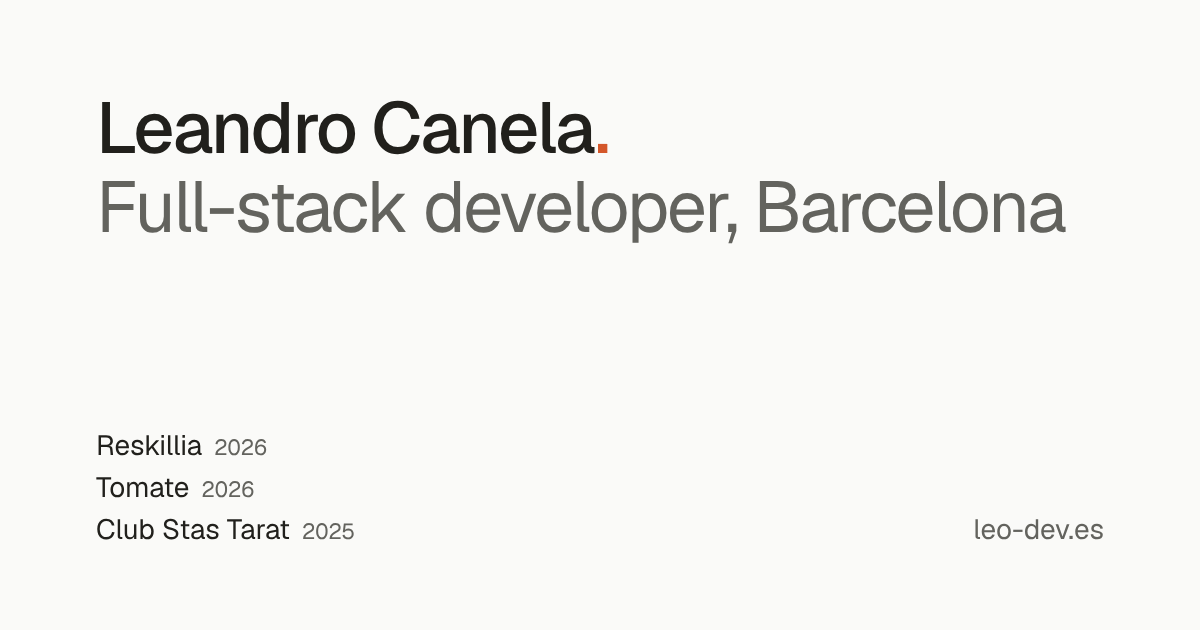
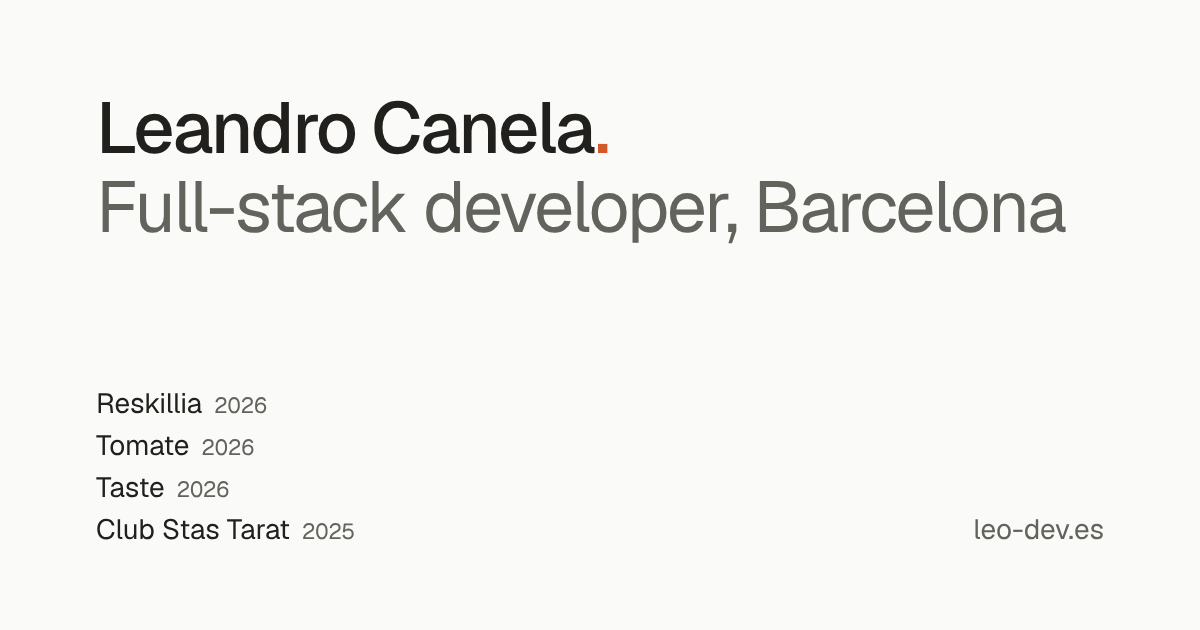
Portfolio: add the taste skill as a project
Links to this repository; also listed on og.png.

Claude-Session: https://claude.ai/code/session_017t1mfwrRFtcYPK5iNUGfp5

Changed region(s): [[0.0925, 0.754, 0.2158, 0.8143], [0.0617, 0.6937, 0.2158, 0.7238], [0.0617, 0.6333, 0.2158, 0.6635]]

diff --git a/experiments/runs/taste/b5-minimal/index.html b/experiments/runs/taste/b5-minimal/index.html
@@ -16,14 +16,14 @@
   <meta property="og:image:type" content="image/png" />
   <meta property="og:image:width" content="1200" />
   <meta property="og:image:height" content="630" />
-  <meta property="og:image:alt" content="Leandro Canela. Full-stack developer, Barcelona. Reskillia, Tomate and Club Stas Tarat." />
+  <meta property="og:image:alt" content="Leandro Canela. Full-stack developer, Barcelona. Reskillia, Tomate, Taste and Club Stas Tarat." />
   <meta property="og:locale" content="en_GB" />
 
   <meta name="twitter:card" content="summary_large_image" />
   <meta name="twitter:title" content="Leandro Canela — Full-stack developer" />
   <meta name="twitter:description" content="Full-stack developer in Barcelona, working on the part people don't see: data models, permissions and what happens when something fails." />
   <meta name="twitter:image" content="https://leo-dev.es/og.png" />
-  <meta name="twitter:image:alt" content="Leandro Canela. Full-stack developer, Barcelona. Reskillia, Tomate and Club Stas Tarat." />
+  <meta name="twitter:image:alt" content="Leandro Canela. Full-stack developer, Barcelona. Reskillia, Tomate, Taste and Club Stas Tarat." />
 
   <meta name="theme-color" content="#fafaf8" media="(prefers-color-scheme: light)" />
   <meta name="theme-color" content="#0f0e0c" media="(prefers-color-scheme: dark)" />
@@ -58,6 +58,7 @@
       <ul class="projects">
         <li><a href="https://reskillia.humannova.com" target="_blank" rel="noopener"><span class="title">Reskillia</span><span class="year">2026</span><span class="desc">Measures a team's digital skills against DigComp 2.2.</span></a></li>
         <li><a href="https://usetomate.com" target="_blank" rel="noopener"><span class="title">Tomate</span><span class="year">2026</span><span class="desc">A macOS timer for 25 to 90 minute study sessions.</span></a></li>
+        <li><a href="https://github.com/Leocanela279/how-tf-can-ai-have-taste" target="_blank" rel="noopener"><span class="title">Taste</span><span class="year">2026</span><span class="desc">A Claude skill that gives AI-built interfaces taste.</span></a></li>
         <li><a href="https://stastarat.com" target="_blank" rel="noopener"><span class="title">Club Stas Tarat</span><span class="year">2025</span><span class="desc">Website for a 40-year-old board game club in Terrassa.</span></a></li>
       </ul>
     </section>

diff --git a/portfolio/public/index.html b/portfolio/public/index.html
@@ -16,14 +16,14 @@
   <meta property="og:image:type" content="image/png" />
   <meta property="og:image:width" content="1200" />
   <meta property="og:image:height" content="630" />
-  <meta property="og:image:alt" content="Leandro Canela. Full-stack developer, Barcelona. Reskillia, Tomate and Club Stas Tarat." />
+  <meta property="og:image:alt" content="Leandro Canela. Full-stack developer, Barcelona. Reskillia, Tomate, Taste and Club Stas Tarat." />
   <meta property="og:locale" content="en_GB" />
 
   <meta name="twitter:card" content="summary_large_image" />
   <meta name="twitter:title" content="Leandro Canela — Full-stack developer" />
   <meta name="twitter:description" content="Full-stack developer in Barcelona, working on the part people don't see: data models, permissions and what happens when something fails." />
   <meta name="twitter:image" content="https://leo-dev.es/og.png" />
-  <meta name="twitter:image:alt" content="Leandro Canela. Full-stack developer, Barcelona. Reskillia, Tomate and Club Stas Tarat." />
+  <meta name="twitter:image:alt" content="Leandro Canela. Full-stack developer, Barcelona. Reskillia, Tomate, Taste and Club Stas Tarat." />
 
   <meta name="theme-color" content="#fafaf8" media="(prefers-color-scheme: light)" />
   <meta name="theme-color" content="#0f0e0c" media="(prefers-color-scheme: dark)" />
@@ -58,6 +58,7 @@
       <ul class="projects">
         <li><a href="https://reskillia.humannova.com" target="_blank" rel="noopener"><span class="title">Reskillia</span><span class="year">2026</span><span class="desc">Measures a team's digital skills against DigComp 2.2.</span></a></li>
         <li><a href="https://usetomate.com" target="_blank" rel="noopener"><span class="title">Tomate</span><span class="year">2026</span><span class="desc">A macOS timer for 25 to 90 minute study sessions.</span></a></li>
+        <li><a href="https://github.com/Leocanela279/how-tf-can-ai-have-taste" target="_blank" rel="noopener"><span class="title">Taste</span><span class="year">2026</span><span class="desc">A Claude skill that gives AI-built interfaces taste.</span></a></li>
         <li><a href="https://stastarat.com" target="_blank" rel="noopener"><span class="title">Club Stas Tarat</span><span class="year">2025</span><span class="desc">Website for a 40-year-old board game club in Terrassa.</span></a></li>
       </ul>
     </section>

diff --git a/experiments/runs/taste/b5-minimal/design/og.html b/experiments/runs/taste/b5-minimal/design/og.html
@@ -30,6 +30,7 @@
     <div>
       <p><b>Reskillia</b><span class="year">2026</span></p>
       <p><b>Tomate</b><span class="year">2026</span></p>
+      <p><b>Taste</b><span class="year">2026</span></p>
       <p><b>Club Stas Tarat</b><span class="year">2025</span></p>
     </div>
     <p>leo-dev.es</p>

diff --git a/experiments/runs/taste/b5-minimal/design/DESIGN.md b/experiments/runs/taste/b5-minimal/design/DESIGN.md
@@ -134,3 +134,6 @@ never wrap; from 600px it sits in the header row, 28px from the icons, the same 
 **Owner request (2026-11-04): link previews.** Open Graph and Twitter tags, a canonical URL and
 a 1200×630 `og.png`, rendered from `design/og.html` (Geist, the light palette, name with the orange
 period, role, the three projects with years, the domain) by `design/og-render.cjs`.
+
+**Owner request (2026-11-04): add the taste skill** (this repo, github.com/Leocanela279/how-tf-can-ai-have-taste)
+as a fourth project, third in the list with the other 2026 work; also on `og.png`.
